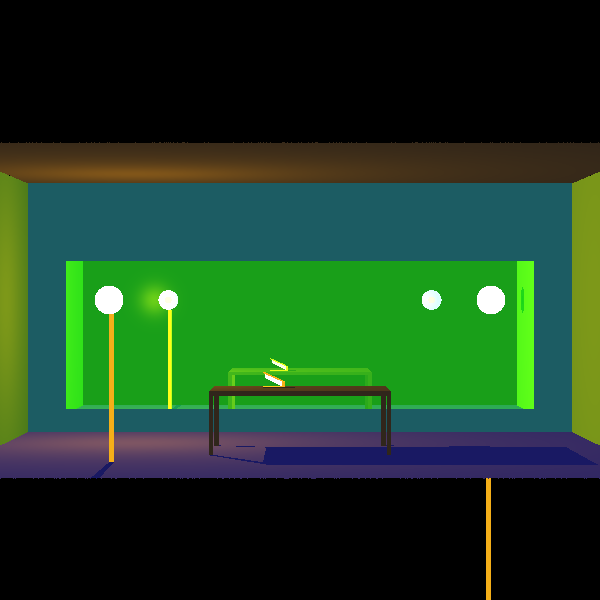
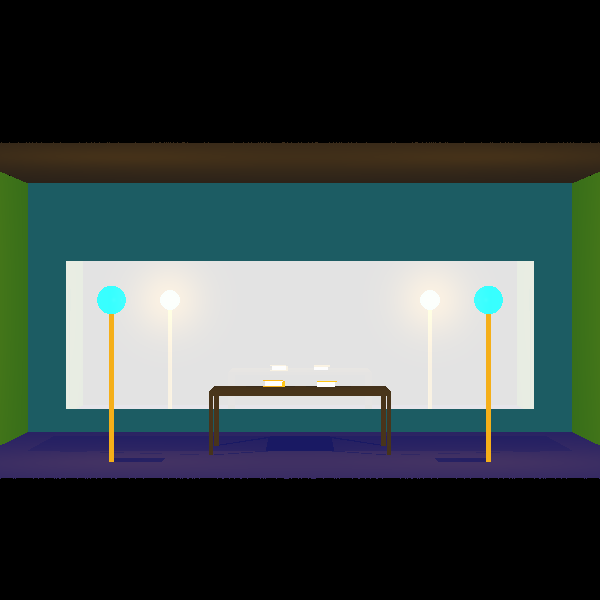
rectangle

Changed region(s): [[0.0, 0.27, 1.0, 1.0]]

diff --git a/Tests/elements/ReflectionRefractionTests.java b/Tests/elements/ReflectionRefractionTests.java
@@ -648,25 +648,59 @@ public class ReflectionRefractionTests {
         List<Geometry> pages = new LinkedList<>();
         for(int i = 0; i< 10; i++){
                     pages.addAll( new Rectangle
-                        (new Point3D(8,20, 0.2+i*0.1 + 2),
-                        new Point3D(4,20,0.2 + i*0.1),
-                        new Point3D(4,15,0.2 + i*0.1),
-                        new Point3D(8,15,0.2 + i*0.1 + 2)).getCube(0.08));
+                        (new Point3D(8,20, 0.3+i*0.1),
+                        new Point3D(4,20,0.3 + i*0.1),
+                        new Point3D(4,15,0.3 + i*0.1),
+                        new Point3D(8,15,0.3 + i*0.1)).getCube(0.08));
         }
 
 
         List<Geometry> cover2 = new Rectangle
-                (new Point3D(8.5,20,1.3 +2),
-                        new Point3D(4,20,1.3),
-                        new Point3D(4,15,1.3),
-                        new Point3D(8.5,15,1.3+2)).getCube(0.18);
-
+                (new Point3D(8.5,20,1.4),
+                        new Point3D(4,20,1.4),
+                        new Point3D(4,15,1.4),
+                        new Point3D(8.5,15,1.4)).getCube(0.18);
 
         List<Geometry> cover3 = new Rectangle
                 (new Point3D(4,20,0),
                         new Point3D(3.5,20,0),
                         new Point3D(3.5,15,0),
                         new Point3D(4,15,0)).getCube(1.3);
+
+
+
+
+
+
+        List<Geometry> cover1_2 = new Rectangle
+                (new Point3D(-8.5,20,0),
+                        new Point3D(-8.5,15,0),
+                        new Point3D(-4,15,0),
+                        new Point3D(-4,20,0)).getCube(0.18);
+
+
+        List<Geometry> pages_2 = new LinkedList<>();
+        for(int i = 0; i< 10; i++){
+            pages_2.addAll( new Rectangle
+                    (new Point3D(-8,20, 0.3+i*0.1),
+                            new Point3D(-4,20,0.3 + i*0.1),
+                            new Point3D(-4,15,0.3 + i*0.1),
+                            new Point3D(-8,15,0.3 + i*0.1)).getCube(0.08));
+        }
+
+
+        List<Geometry> cover2_2 = new Rectangle
+                (new Point3D(-8.5,20,1.4),
+                        new Point3D(-8.5,15,1.4),
+                        new Point3D(-4,15,1.4),
+                        new Point3D(-4,20,1.4)).getCube(0.18);
+
+
+        List<Geometry> cover3_2 = new Rectangle
+                (new Point3D(-4,20,0),
+                        new Point3D(-4,15,0),
+                        new Point3D(-3.5,15,0),
+                        new Point3D(-3.5,20,0)).getCube(1.3);
 
 
 
@@ -874,6 +908,83 @@ public class ReflectionRefractionTests {
 
 
 
+
+
+
+
+
+                cover1_2.get(0)
+                        .setEmission(new Color(220,150,0))
+                        .setMaterial(new Material().setKd(1).setKs(0).setNShininess(50)),
+                cover1_2.get(1)
+                        .setEmission(new Color(220,150,0))
+                        .setMaterial(new Material().setKd(1).setKs(0).setNShininess(50)),
+                cover1_2.get(2)
+                        .setEmission(new Color(220,150,0))
+                        .setMaterial(new Material().setKd(1).setKs(0).setNShininess(50)),
+                cover1_2.get(3)
+                        .setEmission(new Color(220,150,0))
+                        .setMaterial(new Material().setKd(1).setKs(0).setNShininess(50)),
+                cover1_2.get(4)
+                        .setEmission(new Color(220,150,0))
+                        .setMaterial(new Material().setKd(1).setKs(0).setNShininess(50)),
+                cover1_2.get(5)
+                        .setEmission(new Color(220,150,0))
+                        .setMaterial(new Material().setKd(1).setKs(0).setNShininess(50)),
+
+
+
+
+
+
+
+
+
+
+                cover2_2.get(0)
+                        .setEmission(new Color(220,150,0))
+                        .setMaterial(new Material().setKd(1).setKs(0).setNShininess(50)),
+                cover2_2.get(1)
+                        .setEmission(new Color(220,150,0))
+                        .setMaterial(new Material().setKd(1).setKs(0).setNShininess(50)),
+                cover2_2.get(2)
+                        .setEmission(new Color(220,150,0))
+                        .setMaterial(new Material().setKd(1).setKs(0).setNShininess(50)),
+                cover2_2.get(3)
+                        .setEmission(new Color(220,150,0))
+                        .setMaterial(new Material().setKd(1).setKs(0).setNShininess(50)),
+                cover2_2.get(4)
+                        .setEmission(new Color(220,150,0))
+                        .setMaterial(new Material().setKd(1).setKs(0).setNShininess(50)),
+                cover2_2.get(5)
+                        .setEmission(new Color(220,150,0))
+                        .setMaterial(new Material().setKd(1).setKs(0).setNShininess(50)),
+
+
+
+
+                cover3_2.get(0)
+                        .setEmission(new Color(220,150,0))
+                        .setMaterial(new Material().setKd(1).setKs(0).setNShininess(50)),
+                cover3_2.get(1)
+                        .setEmission(new Color(220,150,0))
+                        .setMaterial(new Material().setKd(1).setKs(0).setNShininess(50)),
+                cover3_2.get(2)
+                        .setEmission(new Color(220,150,0))
+                        .setMaterial(new Material().setKd(1).setKs(0).setNShininess(50)),
+                cover3_2.get(3)
+                        .setEmission(new Color(220,150,0))
+                        .setMaterial(new Material().setKd(1).setKs(0).setNShininess(50)),
+                cover3_2.get(4)
+                        .setEmission(new Color(220,150,0))
+                        .setMaterial(new Material().setKd(1).setKs(0).setNShininess(50)),
+                cover3_2.get(5)
+                        .setEmission(new Color(220,150,0))
+                        .setMaterial(new Material().setKd(1).setKs(0).setNShininess(50)),
+
+
+
+
                 lamp.get(0)
                         .setEmission(new Color(220,150,0))
                         .setMaterial(new Material().setKd(1).setKs(0).setNShininess(50)),
@@ -923,29 +1034,19 @@ public class ReflectionRefractionTests {
 
 
 
-                new Sphere(new Point3D(40,60,20),3)
-                        .setEmission(new Color(188,255,255))
+                new Sphere(new Point3D(39.5,60,20),3)
+                        .setEmission(new Color(0,190,190))
                         .setMaterial(new Material().setKt(0.3).setKd(0.4).setKs(0.3).setNShininess(100)),
 
 
 
 
-                new Sphere(new Point3D(40,60,20),1)
-                        .setEmission(new Color(255,0,0))
-                        .setMaterial(new Material().setKd(0.5).setKs(0.5).setNShininess(100)),
 
-
-
-                new Sphere(new Point3D(-40,60,20),3)
-                        .setEmission(new Color(188,255,255))
+                new Sphere(new Point3D(-39.5,60,20),3)
+                        .setEmission(new Color(0,190,190))
                         .setMaterial(new Material().setKt(0.3).setKd(0.4).setKs(0.3).setNShininess(100)),
 
 
-
-
-                new Sphere(new Point3D(-40,60,20),1)
-                        .setEmission(new Color(255,0,0))
-                        .setMaterial(new Material().setKd(0.5).setKs(0.5).setNShininess(100)),
 
 
 
@@ -1011,7 +1112,7 @@ public class ReflectionRefractionTests {
                         new Point3D(-60,-39,-8),
                         new Point3D(-60,-39,30),
                         new Point3D(60, -39, 30)).
-                        setEmission(new Color(255, 222, 0))
+                        setEmission(new Color(202, 202, 202))
                         .setMaterial(new Material().setKs(0.8).setNShininess(180).setKr(0.1))
                         );
 
@@ -1021,6 +1122,10 @@ public class ReflectionRefractionTests {
             geometries.add(  pages.get(i)
                             .setEmission(new Color(255, 255, 255))
                             .setMaterial(new Material().setKd(1).setKs(0).setNShininess(50)));
+
+            geometries.add(  pages_2.get(i)
+                    .setEmission(new Color(255, 255, 255))
+                    .setMaterial(new Material().setKd(1).setKs(0).setNShininess(50)));
         }
 
 
@@ -1038,7 +1143,7 @@ public class ReflectionRefractionTests {
         lightSources.add(
                 new PointLight(
                         new Color(100,60, 0),
-                        new Point3D(40, 0, 20)));
+                        new Point3D(-40, 60, 20)));
 
         sceneBuilder.setGeometries(geometries)
                 .setLights(lightSources)
